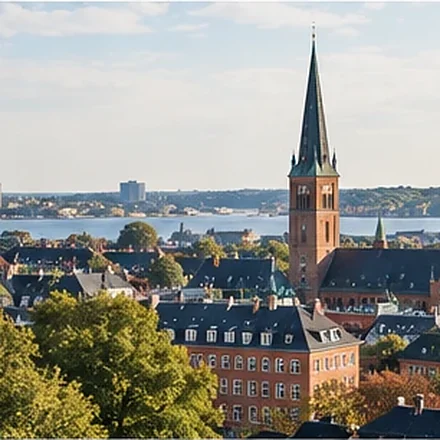
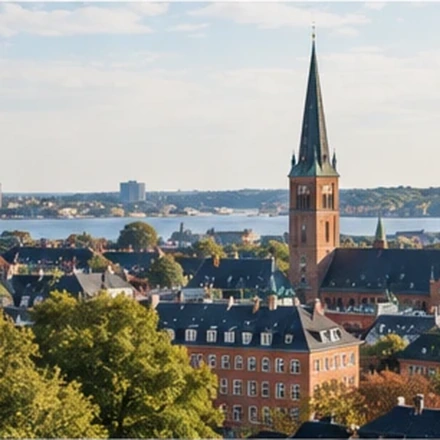
Ajusta el bloque de la SU, corrige las FAQ y oculta Historias
- Portada: el numeral de la SU queda en "990 €" y el detalle pasa al párrafo,
  que ahora dice que la SU es una ayuda de 990 € al mes del Estado danés.
- Historias queda oculta: fuera del menú, de la portada, del sitemap y en
  noindex. La página y los datos siguen ahí para volver a publicarla.
- Preguntas frecuentes del proceso de admisión: la matrícula añade que los
  otros gastos son mínimos; la EBAU pasa a "no es necesaria" y la
  homologación del Bachillerato a "no hace falta", con la traducción jurada o
  la validación notarial como excepción que gestionamos nosotros. El cuerpo
  de la guía incorpora ese mismo apartado para no decir una cosa en el texto
  y otra en las preguntas, y se alinea el artículo del blog, que seguía
  respondiendo "depende" a lo de la EBAU.
- Guía de la SU: el requisito de trabajo concreta una media de entre 10 y 12
  horas semanales.
- Guía de alojamiento: nuevo apartado sobre el boligstøtte, la ayuda al
  alquiler que puede solicitarse cuando el alojamiento tiene cocina propia.
- Fotografías reprocesadas. El reescalado con Lanczos y enfoque fuerte dejaba
  bordes crujientes que se leían como pixelación; ahora se suaviza el origen,
  se sube en dos pasos y el enfoque es leve, con más calidad de WebP.

Claude-Session: https://claude.ai/code/session_01WcqeCjLseUGScxBkoQr29h

diff --git a/src/config/sitio.ts b/src/config/sitio.ts
@@ -46,7 +46,9 @@ export const NAV = [
     ],
   },
   { texto: 'Servicios', href: '/servicios/' },
-  { texto: 'Historias', href: '/historias/' },
+  // Historias: oculta por ahora. Para volver a publicarla, descomentar esta
+  // línea, la sección de la portada y quitar el noindex de la página.
+  // { texto: 'Historias', href: '/historias/' },
   { texto: 'Sobre nosotros', href: '/sobre-mi/' },
 ] as const;
 

diff --git a/README.md b/README.md
@@ -66,7 +66,7 @@ consentir. Al configurar un proveedor sin cookies, poner `habilitada: true`.
 Las fotos viven en `public/img/` en WebP, con dos anchos por pieza y el ancho
 en el nombre (`aula-proyectos-660.webp`). Se sirven con `srcset` + `sizes`.
 
-Dos cosas pendientes:
+Tres cosas pendientes:
 
 - **Resolución.** Las fotos actuales se recortaron de hojas de contactos de
   unos 300 px por viñeta y están reescaladas entre 2x y 3x. Se ven bien a 1x,
@@ -76,3 +76,11 @@ Dos cosas pendientes:
   `/sobre-mi/` llevan una escena danesa, no un retrato: no se pone una cara
   que no es la de la persona a la que se atribuye la cita. Al tener las fotos
   reales, se cambian ahí.
+
+## Historias, oculta por ahora
+
+`/historias/` sigue construyéndose pero está fuera del menú, fuera de la
+portada, fuera del sitemap y en `noindex`. Para volver a publicarla:
+descomentar su línea en `NAV` (`src/config/sitio.ts`), quitar `historias` del
+filtro del sitemap en `astro.config.mjs`, quitar el `noindex` de la página y
+recuperar la sección de portada del historial de git.
